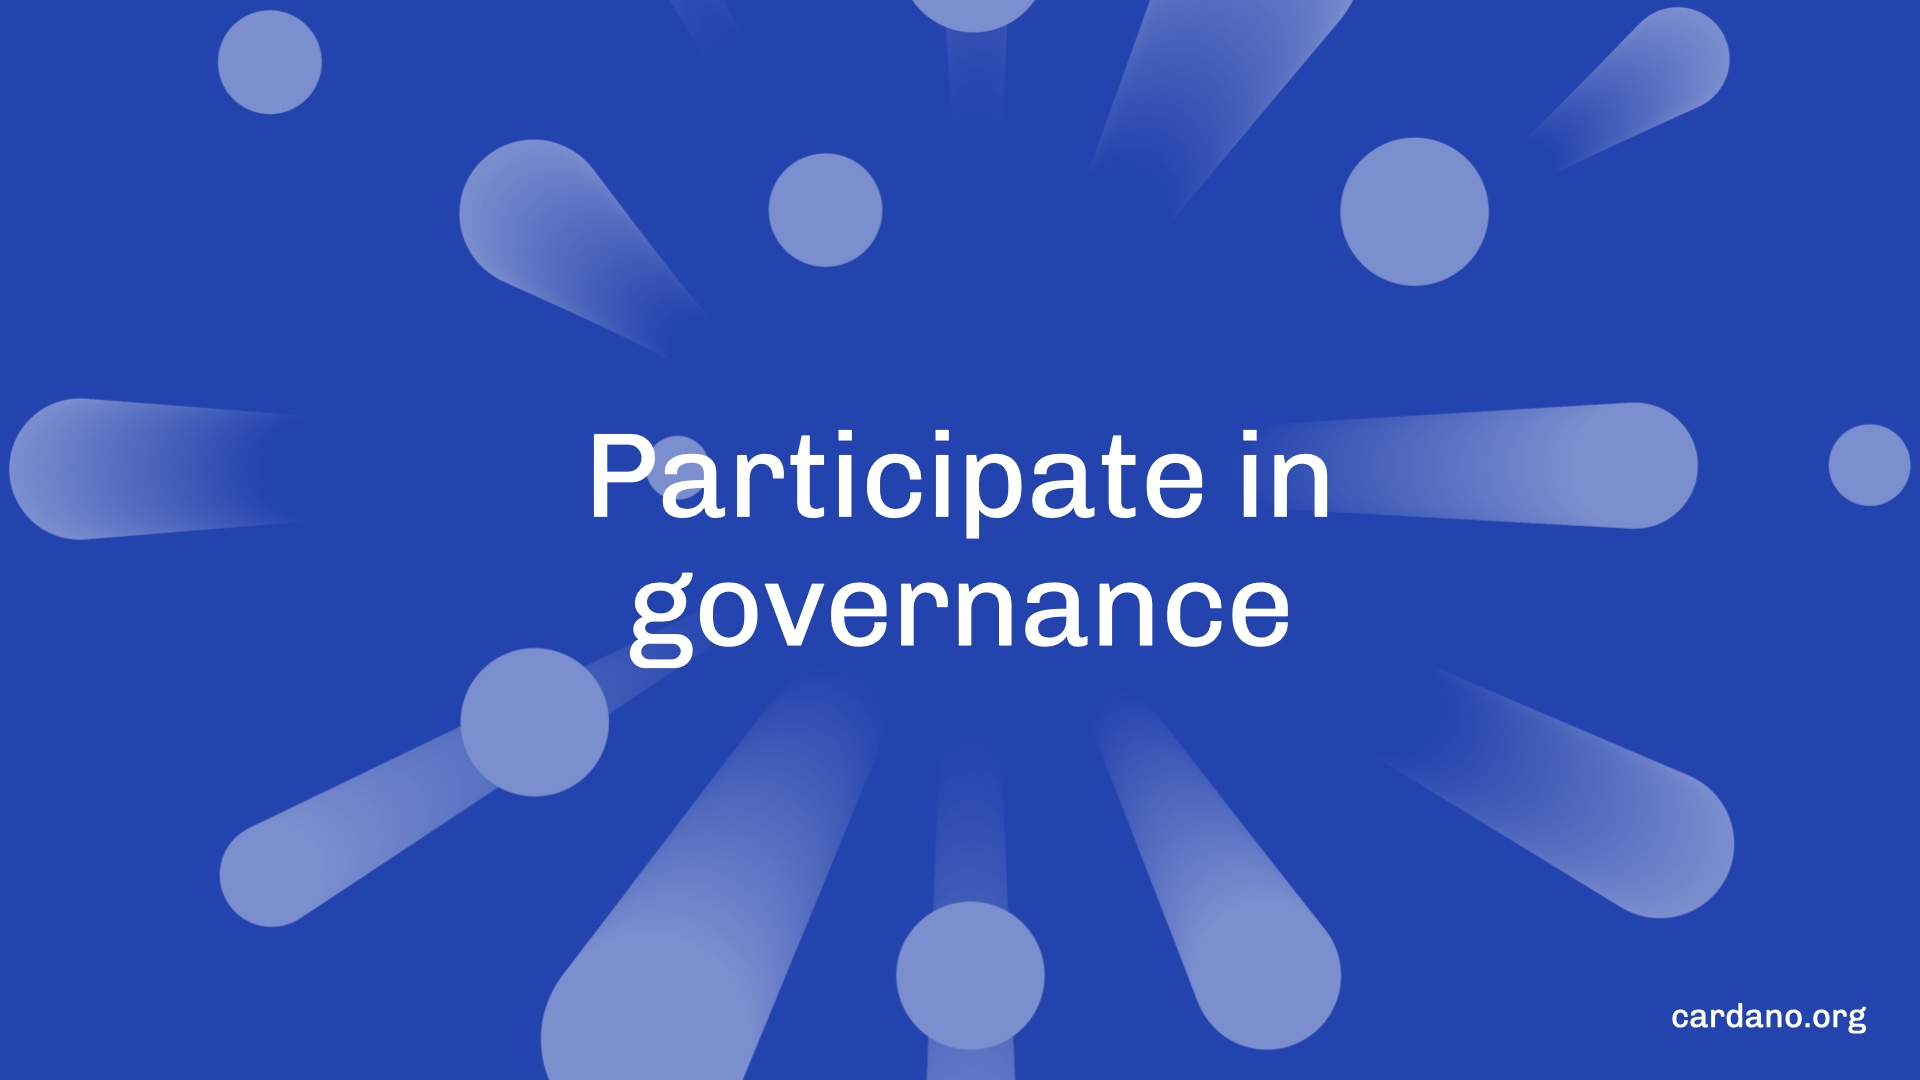
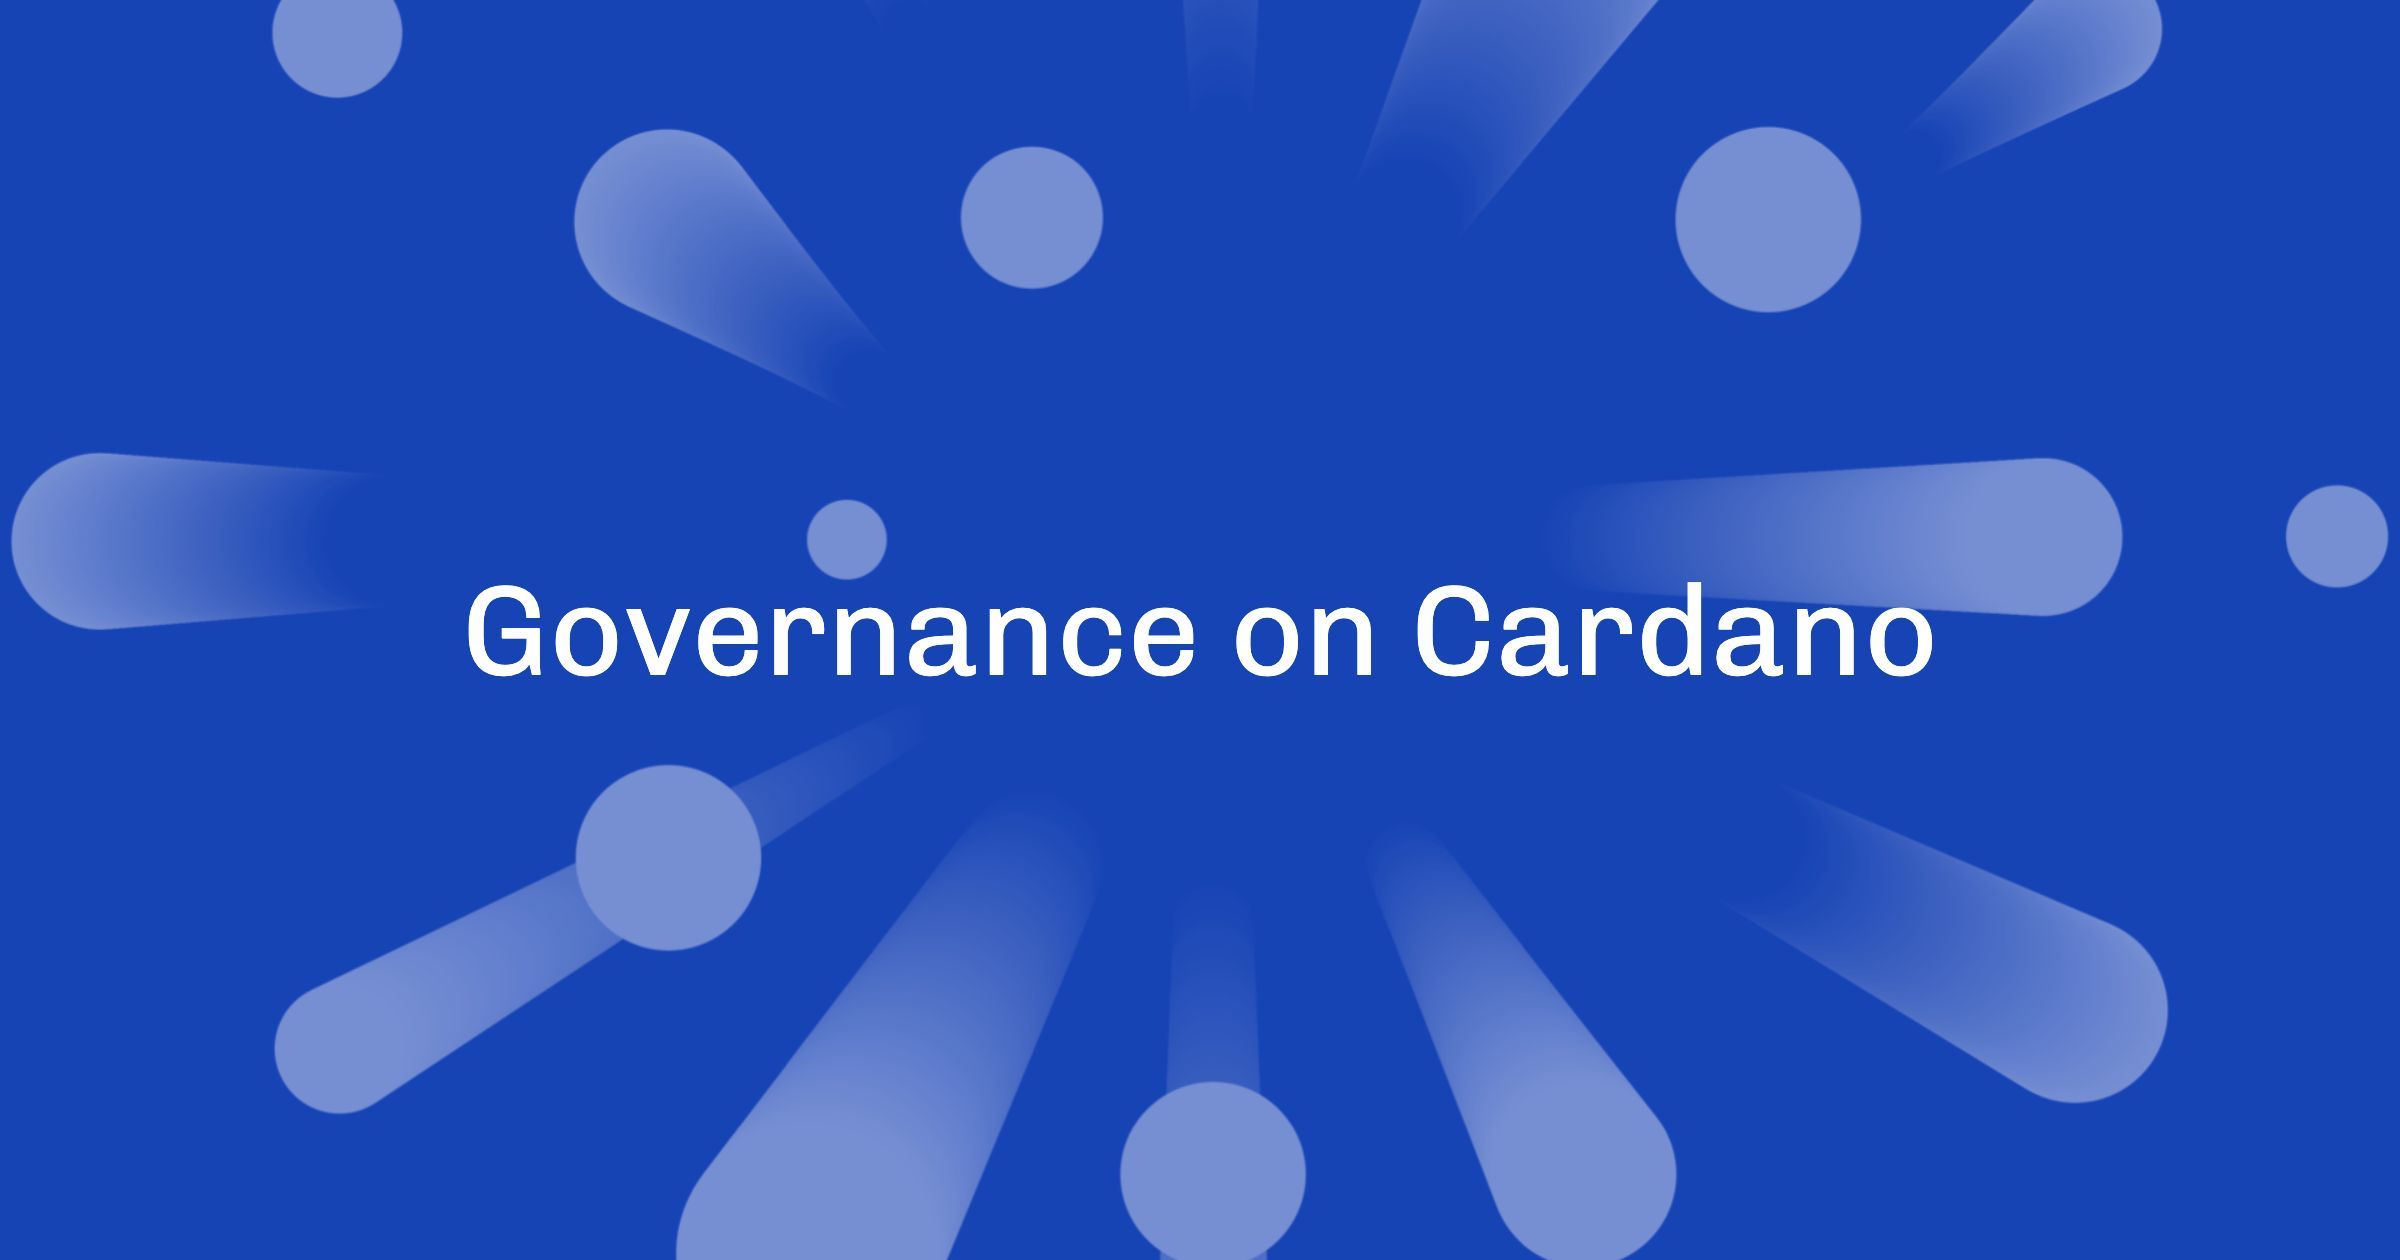
Add open graph files, wording

diff --git a/src/pages/signal.js b/src/pages/signal.js
@@ -20,6 +20,7 @@ export default function Home() {
       formId: 5,
       description: 'We’ll keep you updated on DReps, proposals and how to get involved.',
       bannerType: 'fluidBlue',
+      openGraph: 'signal-governance',
     },
   };
 
@@ -34,7 +35,7 @@ export default function Home() {
       title={siteTitle}
       description={content.description}
     >
-      <OpenGraphInfo pageName="singal" />
+      <OpenGraphInfo pageName={content.openGraph} />
       <SiteHero
         title={content.title}
         description={content.description}

diff --git a/src/pages/governance.js b/src/pages/governance.js
@@ -46,7 +46,7 @@ export default function Home() {
               ]}
               quoteText="Change begins with one voice. But is realized through the Combination of many."
               showButton={true}
-              buttonText="Participate"
+              buttonText="Stay up to date"
               buttonLink="/signal?id=governance"
             />
 
